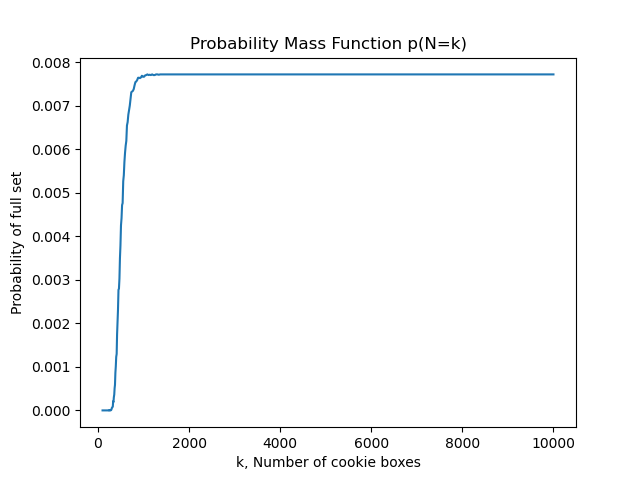
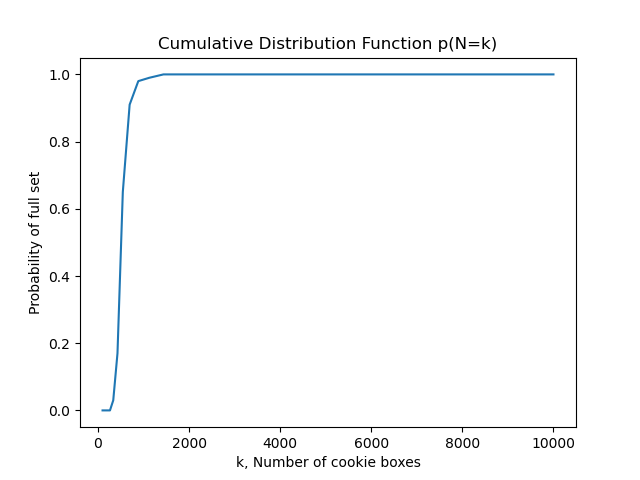
Updates after receiving final feedback.

diff --git a/Algorithms/Final Exam/bailey_final.py b/Algorithms/Final Exam/bailey_final.py
@@ -7,7 +7,7 @@ import time
 ## Problem 1: Unconstrained minimization
 ## First, the objective function
 def sub_1(xk,xk1,yk,yk1):
-    eps = 1e-1
+    eps = 1e-8
     if (yk <= eps) or (yk1 <= eps):
         print("Domain error")
         return 1e6
@@ -30,7 +30,7 @@ def f_1(x):
 
 ## Next, we need it's derivative
 def g_1(x):
-    delta = 1e-2
+    delta = 1e-8
     f0 = f_1(x)
     dx = np.zeros(x.shape)
     for i in range(1,40):
@@ -44,6 +44,9 @@ def g_1(x):
 def problem1():
     start = time.time()
     x = np.ones((40,))
+    a = np.linspace(-5., 12., 20)
+    b = np.linspace(12., 5., 20)
+    x = np.append(a,b)
     sol = gradientDescent(f_1,g_1,x,f_1(x)+1,5e-2, 5e-6)
 
     ## This next bit is a bit of tap dancing to get our solution
@@ -177,7 +180,7 @@ def problem3():
         prob = prob/numTrials
         probs.append(prob)
     pmf = np.array(probs)
-    pmf = pmf/np.sum(pmf)
+    #pmf = pmf/np.sum(pmf)
     cmf = np.zeros(pmf.shape)
     for i in range(0,len(cmf)):
         cmf[i] = np.sum(pmf[0:i+1])
@@ -185,7 +188,7 @@ def problem3():
     plt.plot(ns,pmf)
     plt.xlabel("k, Number of cookie boxes")
     plt.ylabel("Probability of full set")
-    plt.title("Probability Mass Function p(N=k)")
+    plt.title("Cumulative Distribution Function p(N=k)")
     plt.savefig("p3_pmf.png")
 
     plt.figure()
@@ -206,7 +209,6 @@ def problem3():
     print(f"The probability that a full collection is obtained from 500 boxes or less: {p500}.")
 
     print(f"Problem 3 took {time.time()-start} seconds.")
-
 
 ## Problem 4: A sum of IID RVs
 from scipy import stats
@@ -234,7 +236,7 @@ def problem4():
         ys = np.linspace(0,1,n)
         return xs, ys
 
-    n = int(1e8)
+    n = int(1e6)
     xs,ys = buildCDF(n)
 
     cdf_interp = interpolate.interp1d(xs,ys)
@@ -259,10 +261,10 @@ def problem4():
 
     ## Calculate the moments for the approximation
     mu = np.average(xs)
-    si = np.var(xs)
+    si = math.sqrt(np.var(xs))
 
     ## We're forbidden from using a normally distributed RNG, so we'll use uniform
-    n = int(1e4)
+    n = int(1e6)
     ua = 35
     ub = 48
     scale = ub-ua
@@ -294,10 +296,10 @@ def T(x,xp):
 
 ## Then, we calculate the acceptance probability of a given step
 def A(x,xp):
-    if (T(xp,x) < 1e-5) or (P(x) < 1e-5):
+    if (T(x,xp) < 1e-5) or (P(x) < 1e-5):
         return 1. 
     else:
-        temp = P(xp)/P(x)*T(x,xp)/T(xp,x)
+        temp = P(xp)/P(x)*T(xp,x)/T(x,xp)
         return min(1,temp)
 
 ## Take a step along the chain
@@ -316,8 +318,8 @@ def problem5():
     start = time.time()
     ## Parameters.
     m = 60 # points in the autocorrelation function to approximate
-    samples = int(1e6) # samples to use in the approximation
-    throwout = int(1e3) # number of samples to toss out at the beginning
+    samples = int(1e4) # samples to use in the approximation
+    throwout = int(1e4) # number of samples to toss out at the beginning
     n = throwout+samples # total number we'll take
 
     ## Data storage
@@ -352,38 +354,18 @@ def problem5():
     print(f"Problem 5 took {time.time()-start} seconds.")
 
 # Each problem is defined as a function above. Here we actually run them!
-# (This just lets me easily run one at a time while I'm developing the solution)
-
-# start = time.time()
-# problem1()
-# start = time.time()
-# problem2(1.)
-# problem2(2.)
-# problem2(3.)
-# print(f"Problem 2 took {time.time()-start} seconds.")
-# start = time.time()
-# problem3()
-# print(f"Problem 3 took {time.time()-start} seconds.")
-# start = time.time()
-# problem4()
-# print(f"Problem 4 took {time.time()-start} seconds.")
-# start = time.time()
-# problem5()
-# print(f"Problem 5 took {time.time()-start} seconds.")
-# start = time.time()
-
 from multiprocessing import Process
 
 if __name__ == '__main__':
     p1 = Process(target=problem1)
-    #p1.start()
+    p1.start()
     p2 = Process(target=p2wrapper)
-    #p2.start()
+    p2.start()
     p3 = Process(target=problem3)
-    #p3.start()
+    p3.start()
     p4 = Process(target=problem4)
     p4.start()
     p5 = Process(target=problem5)
-    #p5.start()
+    p5.start()
 
-    p4.join()
+    p5.join()
